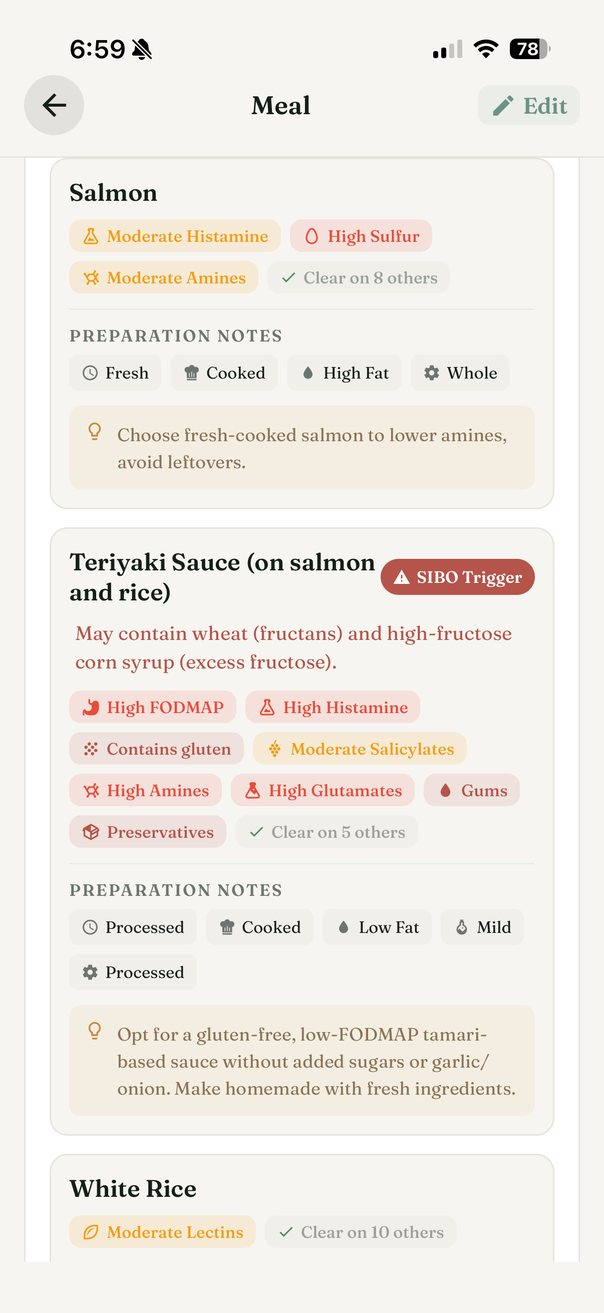
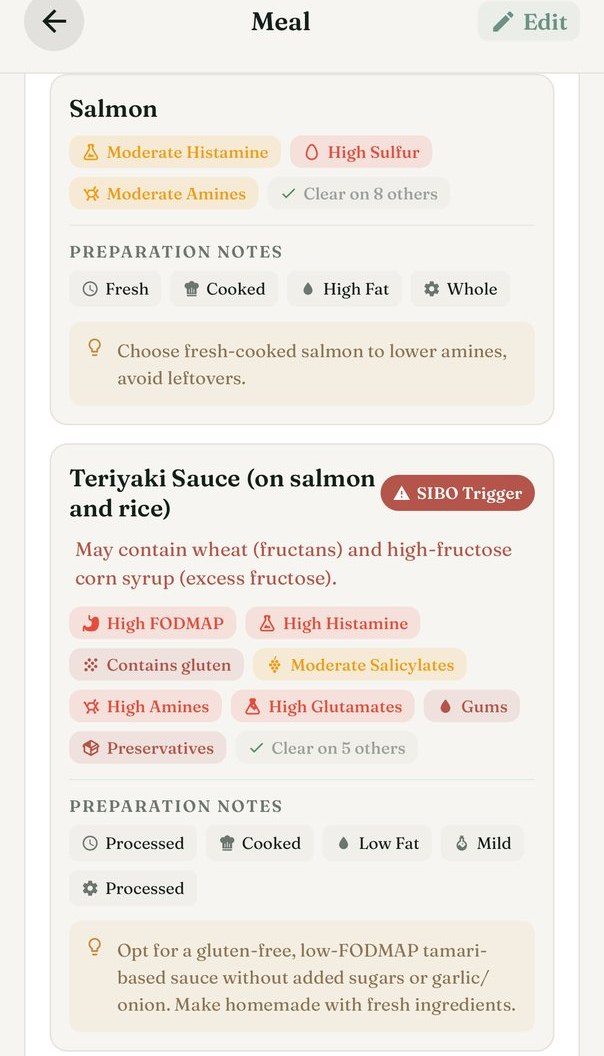
Crop the chrome off the screenshots
Six shots meant to read as one product tour, each stamped with a different
clock and a different battery — 1:21, 6:08, 6:59, 6:07, 6:07, 6:58 and 94,
88, 78, 89, 89, 78. That is the tell that they are six separate captures
rather than one set, and it is the first thing the eye picks up in a grid.

Four of them also carry the floating tab bar from before it was made opaque,
with page content showing through it half-obscured. In the app that is a
deliberate blur; at this size it reads as a rendering fault.

Both are cropped away: 84px off the top for the status bar, and the bottom cut
at the tab bar's edge. The frames are no longer whole phones, so .device drops
its 1206/2622 ratio and stops pretending to be one — they are content cards
now, which is what they always were.

diff --git a/index.html b/index.html
@@ -92,12 +92,12 @@
         <figure class="hero-shot">
           <div class="hero-phone hero-phone-back">
             <div class="device">
-              <img src="images/screens/hero-home.jpg" alt="" width="604" height="1313" loading="eager" decoding="async">
+              <img src="images/screens/hero-home.jpg" alt="" width="604" height="1056" loading="eager" decoding="async">
             </div>
           </div>
           <div class="hero-phone hero-phone-front">
             <div class="device">
-              <img src="images/screens/hero-meal.jpg" alt="A logged meal in Flori: the photograph, its calories and macros, and the analysis beneath" width="604" height="1313" loading="eager" decoding="async">
+              <img src="images/screens/hero-meal.jpg" alt="A logged meal in Flori: the photograph, its calories and macros, and the analysis beneath" width="604" height="1056" loading="eager" decoding="async">
             </div>
           </div>
         </figure>
@@ -168,10 +168,10 @@
         <p class="eyebrow">Inside the app</p>
         <h2>What it actually looks like.</h2>
         <div class="shots">
-          <figure><div class="device"><img src="images/screens/scan.jpg" alt="A meal photographed and analysed, with its name and flags" width="604" height="1313" loading="lazy" decoding="async"></div><figcaption>Point the camera</figcaption></figure>
-          <figure><div class="device"><img src="images/screens/read.jpg" alt="Estimated nutrition and the ingredients Flori detected" width="604" height="1313" loading="lazy" decoding="async"></div><figcaption>Ingredients and macros, filled in</figcaption></figure>
-          <figure><div class="device"><img src="images/screens/breakdown.jpg" alt="Per-food analysis, each item showing only the markers that flagged" width="604" height="1313" loading="lazy" decoding="async"></div><figcaption>What each food contributes</figcaption></figure>
-          <figure><div class="device"><img src="images/screens/journal.jpg" alt="The Flori journal with the logged meal" width="604" height="1313" loading="lazy" decoding="async"></div><figcaption>Saved to your journal</figcaption></figure>
+          <figure><div class="device"><img src="images/screens/scan.jpg" alt="A meal photographed and analysed, with its name and flags" width="604" height="1056" loading="lazy" decoding="async"></div><figcaption>Point the camera</figcaption></figure>
+          <figure><div class="device"><img src="images/screens/read.jpg" alt="Estimated nutrition and the ingredients Flori detected" width="604" height="1056" loading="lazy" decoding="async"></div><figcaption>Ingredients and macros, filled in</figcaption></figure>
+          <figure><div class="device"><img src="images/screens/breakdown.jpg" alt="Per-food analysis, each item showing only the markers that flagged" width="604" height="1056" loading="lazy" decoding="async"></div><figcaption>What each food contributes</figcaption></figure>
+          <figure><div class="device"><img src="images/screens/journal.jpg" alt="The Flori journal with the logged meal" width="604" height="1056" loading="lazy" decoding="async"></div><figcaption>Saved to your journal</figcaption></figure>
         </div>
       </div>
     </section>

diff --git a/css/style.css b/css/style.css
@@ -377,7 +377,12 @@ header nav a:hover { color: var(--cream); }
 .device {
   width: 100%;
   max-width: 260px;
-  aspect-ratio: 1206 / 2622;
+  /* The screenshots are cropped past the status bar and the tab bar, so this
+     is no longer a whole phone and does not pretend to be one. Six captures
+     each carrying a different clock and battery read as six separate photos
+     rather than one tour, and the tab bar in four of them predates its being
+     made opaque -- page content shows through it. */
+  aspect-ratio: 604 / 1056;
   border-radius: 34px;
   padding: 7px;
   background: var(--ink);
